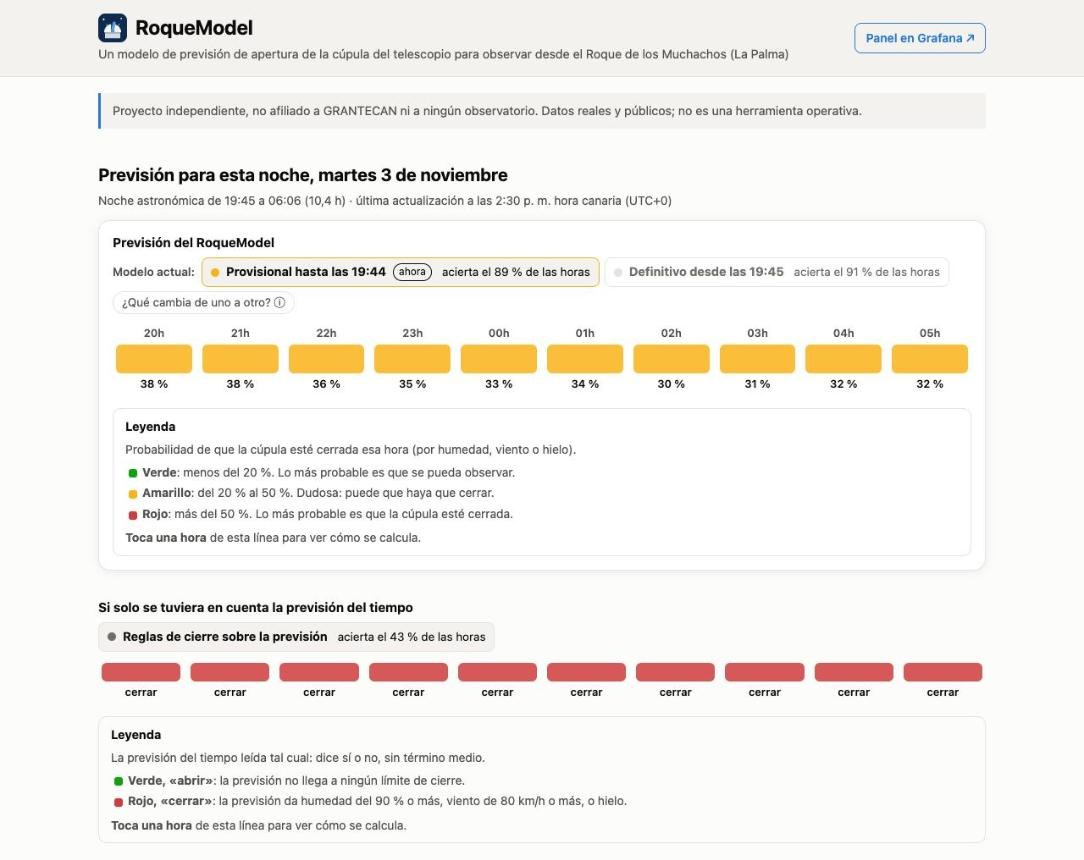
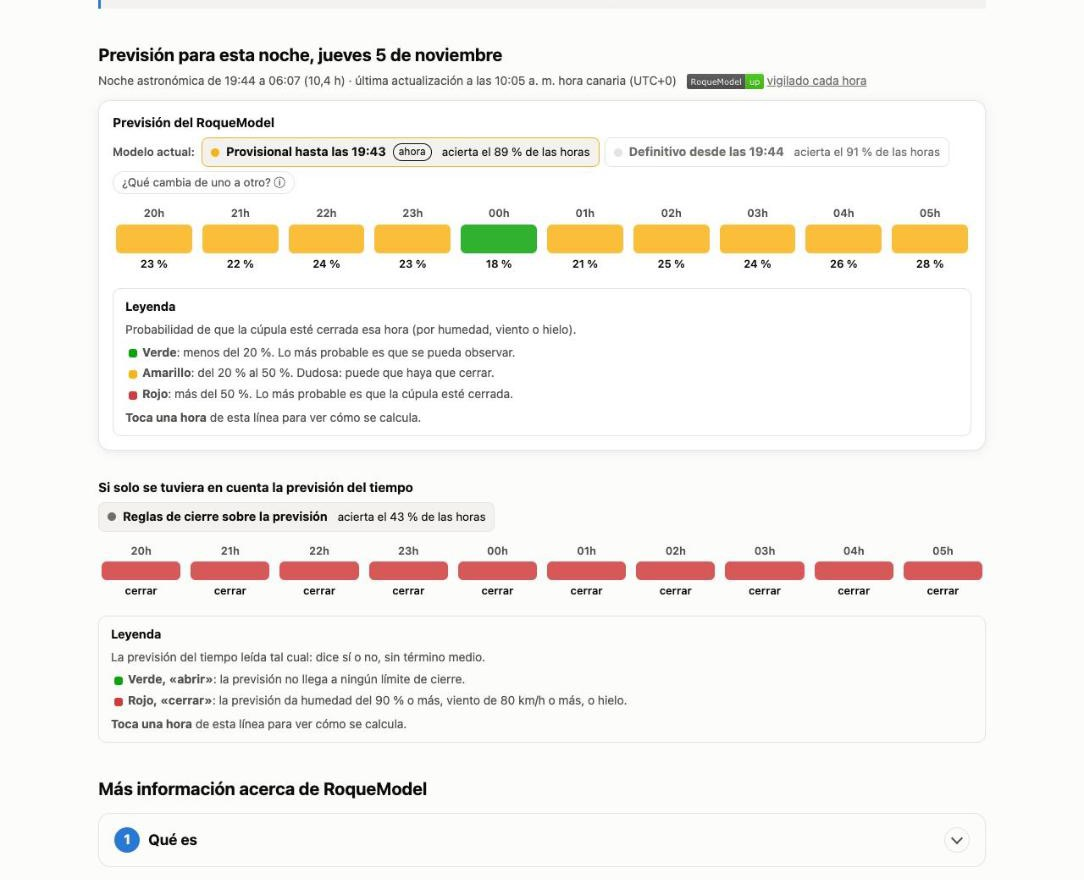
Show the hour above each cell of the forecast-only line

Changed region(s): [[0.0913, 0.0, 0.9133, 0.9674], [0.7915, 0.0302, 0.9133, 0.0907]]

diff --git a/site/index.html b/site/index.html
@@ -5,16 +5,16 @@
   <meta name="viewport" content="width=device-width, initial-scale=1">
   <title>RoqueModel</title>
   <meta name="description" content="RoqueModel: previsión hora a hora de si la cúpula podrá estar abierta para observar esta noche en el Observatorio del Roque de los Muchachos (La Palma). Proyecto independiente con datos reales y públicos.">
-  <link rel="icon" href="assets/favicon-32.png?v=66" sizes="32x32" type="image/png">
-  <link rel="icon" href="assets/favicon.svg?v=66" type="image/svg+xml">
-  <link rel="apple-touch-icon" href="assets/apple-touch-icon.png?v=66">
-  <link rel="stylesheet" href="assets/style.css?v=66">
+  <link rel="icon" href="assets/favicon-32.png?v=67" sizes="32x32" type="image/png">
+  <link rel="icon" href="assets/favicon.svg?v=67" type="image/svg+xml">
+  <link rel="apple-touch-icon" href="assets/apple-touch-icon.png?v=67">
+  <link rel="stylesheet" href="assets/style.css?v=67">
 </head>
 <body>
   <header class="top">
     <div class="wrap top-row">
       <div>
-        <h1 class="brand"><img src="assets/favicon.svg?v=66" alt="" width="34" height="34">RoqueModel</h1>
+        <h1 class="brand"><img src="assets/favicon.svg?v=67" alt="" width="34" height="34">RoqueModel</h1>
         <p class="sub" data-i18n="subtitle"></p>
       </div>
       <a class="grafana-link" href="https://saimonx.github.io/roque-model/grafana/" data-i18n="grafana_link" data-i18n-title="grafana_title"></a>
@@ -143,8 +143,8 @@
   </footer>
 
   <div id="tooltip" class="tooltip" role="status" hidden></div>
-  <script src="assets/i18n.js?v=66"></script>
-  <script src="assets/charts.js?v=66"></script>
-  <script src="assets/app.js?v=66"></script>
+  <script src="assets/i18n.js?v=67"></script>
+  <script src="assets/charts.js?v=67"></script>
+  <script src="assets/app.js?v=67"></script>
 </body>
 </html>

diff --git a/site/assets/app.js b/site/assets/app.js
@@ -51,6 +51,7 @@
         <span class="cell-bar" style="background:var(${COLORS[h.level]})"></span>
         <span class="cell-p">${pct(h.p_closed)}</span>`)).join("");
     $("strip-raw").innerHTML = d.hours.map((h, i) => cell("raw", h, i, `
+        <span class="cell-hour">${h.local.slice(0, 2)}h</span>
         <span class="cell-bar" style="background:var(${h.raw_closed ? "--critical" : "--good"})"></span>
         <span class="cell-p">${h.raw_closed ? t.raw_close_word : t.raw_open_word}</span>`)).join("");
     [["strip", "model"], ["strip-raw", "raw"]].forEach(([id, line]) => $(id).querySelectorAll(".cell").forEach((b) =>

diff --git a/README.md b/README.md
@@ -25,7 +25,7 @@ estación de la cumbre.
 > el NOT, el TNG, el Telescopio Liverpool ni ninguna otra institución. Todos los datos son reales y públicos,
 > y se citan abajo.
 
-![La web de RoqueModel: previsión de esta noche, hora a hora (3 nov 2026)](reports/figures/web.jpg)
+![La web de RoqueModel: previsión de esta noche, hora a hora (5 nov 2026)](reports/figures/web.jpg)
 
 ## Cómo funciona
 
